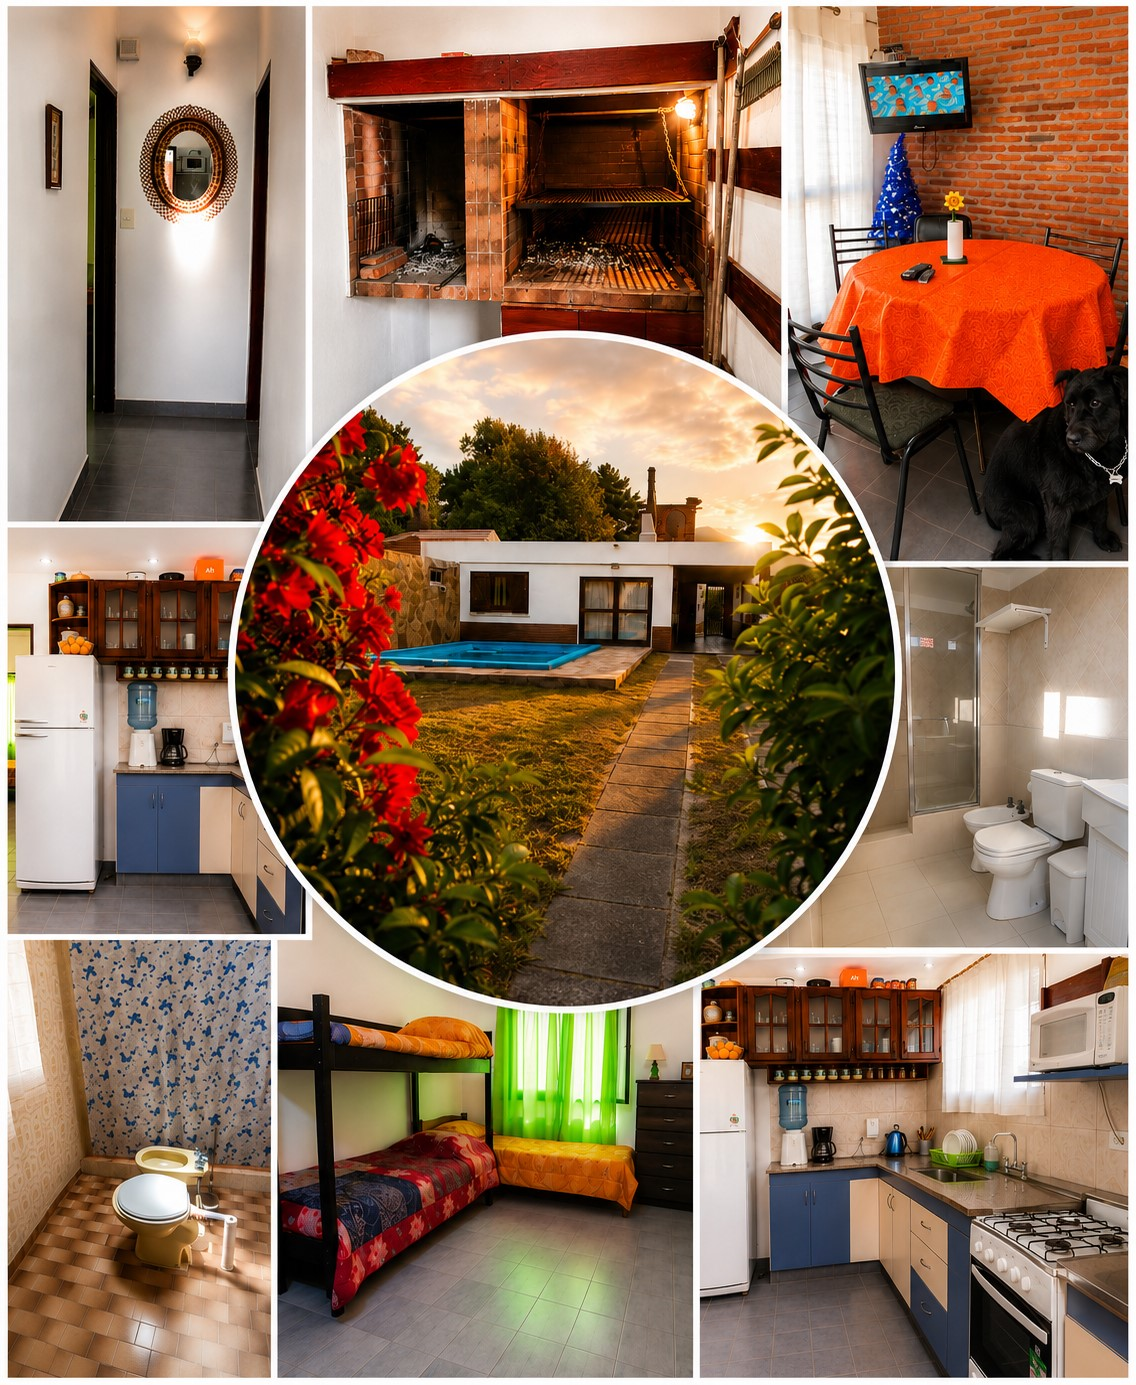
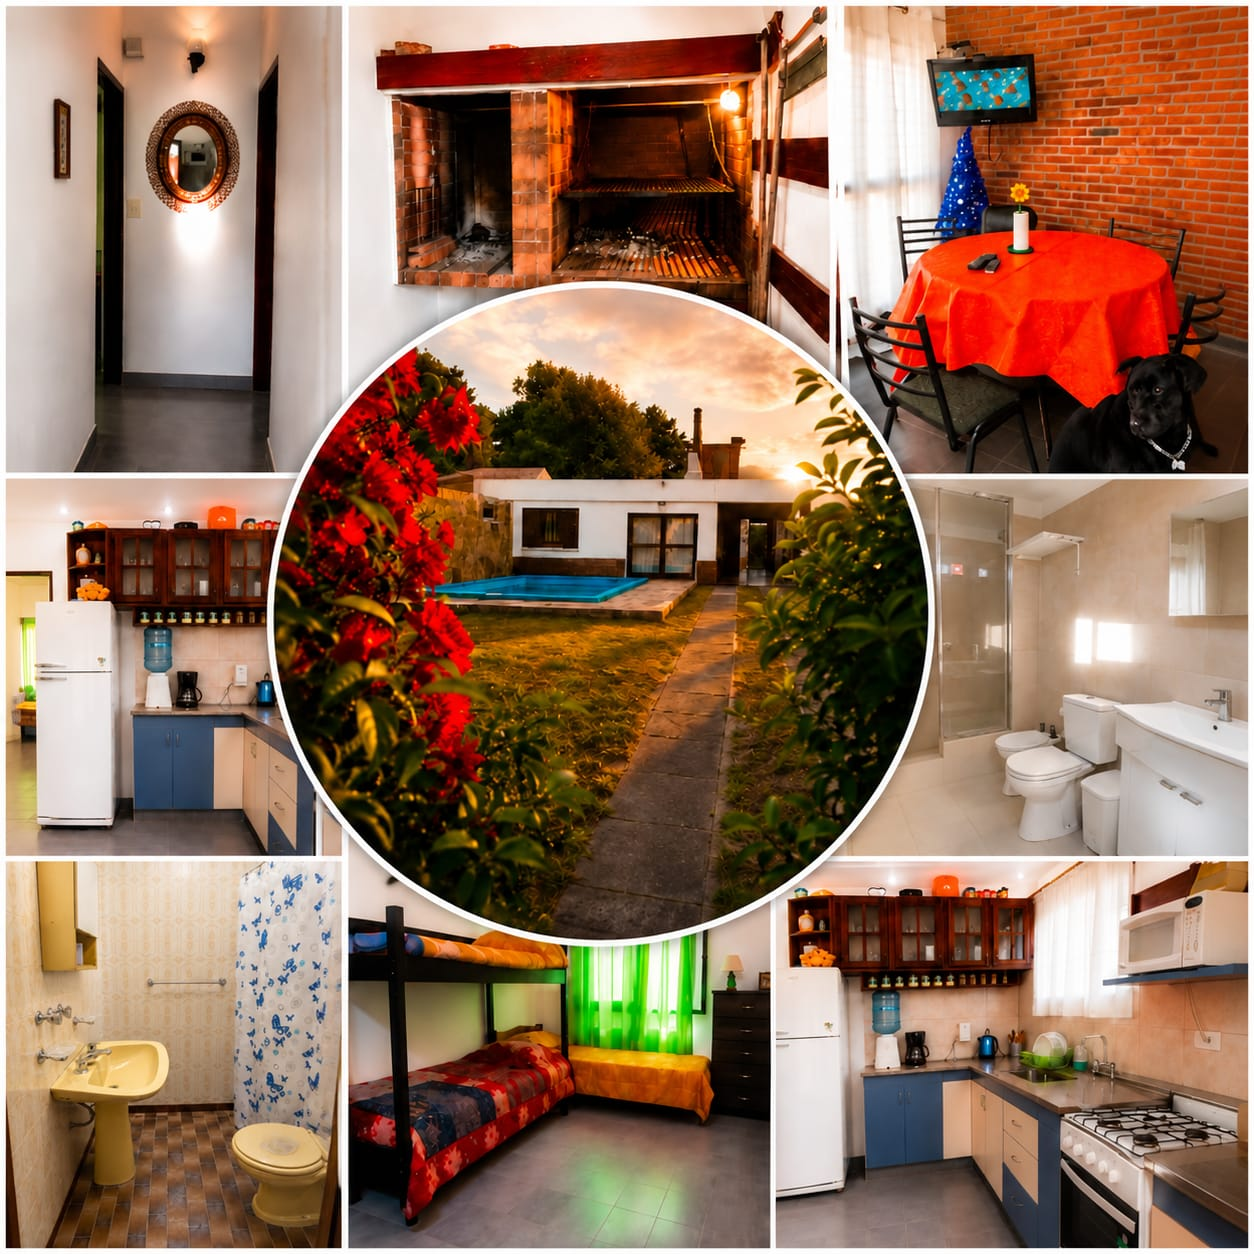
Ajustes de seguridad, sidebar y estadisticas

diff --git a/src/components/Admin/AdminStats.jsx b/src/components/Admin/AdminStats.jsx
@@ -14,19 +14,19 @@ function AdminStats({ reservas = [] }) {
     (reserva) => reserva.estado === "pendiente",
   ).length;
 
-  const totalClientes = new Set(
-    reservas
-      .filter(
-        (reserva) =>
-          reserva.estado === "pendiente" || reserva.estado === "confirmada",
-      )
-      .map((reserva) =>
-        `${reserva.nombre || ""}-${reserva.telefono || reserva.email || ""}`
-          .trim()
-          .toLowerCase(),
-      )
-      .filter((clave) => clave.replace("-", "") !== ""),
-  ).size;
+  // Suma el campo "huespedes" de todas las reservas activas (pendientes +
+  // confirmadas) — cuánta gente hay en total alojada/por alojarse ahora
+  // mismo entre todas las casas, sin importar si es la misma persona
+  // reservando varias veces.
+  const totalHuespedes = reservas
+    .filter(
+      (reserva) =>
+        reserva.estado === "pendiente" || reserva.estado === "confirmada",
+    )
+    .reduce(
+      (suma, reserva) => suma + (parseInt(reserva.huespedes, 10) || 0),
+      0,
+    );
 
   return (
     <>
@@ -175,7 +175,7 @@ function AdminStats({ reservas = [] }) {
           </div>
         </div>
 
-        {/* Total Clientes */}
+        {/* Total Huéspedes */}
         <div className="gabriel-item">
           <div className="gabriel-icon-col">
             <div className="gabriel-icon-box gabriel-icon-orange">
@@ -193,7 +193,7 @@ function AdminStats({ reservas = [] }) {
           </div>
           <div className="gabriel-info">
             <div className="gabriel-info-top">
-              <span className="gabriel-value">{totalClientes}</span>
+              <span className="gabriel-value">{totalHuespedes}</span>
               <button className="gabriel-menu-dots" aria-label="Más opciones">
                 <svg viewBox="0 0 24 24" fill="none">
                   <circle cx="12" cy="5" r="1.6" fill="currentColor" />
@@ -202,7 +202,7 @@ function AdminStats({ reservas = [] }) {
                 </svg>
               </button>
             </div>
-            <span className="gabriel-label">Total Clientes</span>
+            <span className="gabriel-label">Total Huéspedes</span>
           </div>
         </div>
       </div>

diff --git a/src/pages/AdminDashboard.jsx b/src/pages/AdminDashboard.jsx
@@ -5,6 +5,7 @@ import "./AdminDashboard.css";
 
 // RUTA CORREGIDA: sube un nivel (..) y entra en context
 import { useSettings } from "../context/SettingsContext";
+import { apiFetch } from "../utils/apiFetch";
 
 import AdminSidebar from "../components/Admin/AdminSidebar";
 import AdminBottomNav from "../components/Admin/AdminBottomNav";
@@ -22,7 +23,6 @@ import AdminScrollTop from "../components/Admin/AdminScrollTop";
 import AdminActividadReciente from "../components/Admin/AdminActividadReciente";
 import AdminReservasPanel from "../components/Admin/AdminReservasPanel";
 import ChangePassword from "./ChangePassword";
-import { API_URL } from "../config/api";
 
 function AdminDashboard() {
   const navigate = useNavigate();
@@ -43,9 +43,9 @@ function AdminDashboard() {
   }, [navigate]);
 
   const cargarReservas = () => {
-    fetch(`${API_URL}/api/reservas`)
-      .then((res) => res.json())
-      .then((data) => setReservas(data))
+    apiFetch("/api/reservas")
+      .then((res) => (res ? res.json() : []))
+      .then((data) => setReservas(Array.isArray(data) ? data : []))
       .catch((error) => console.error("Error cargando reservas:", error));
   };
 
@@ -57,6 +57,7 @@ function AdminDashboard() {
 
   const logout = () => {
     localStorage.removeItem("auth");
+    localStorage.removeItem("token");
     navigate("/admin/login", { replace: true });
   };
 

diff --git a/src/components/Admin/AdminSidebar.css b/src/components/Admin/AdminSidebar.css
@@ -62,9 +62,9 @@
   display: flex;
   align-items: center;
   gap: 12px;
-  padding: 10px 12px;
+  padding: 11px 14px;
   margin: 4px 0;
-  border-radius: 8px;
+  border-radius: 14px;
   cursor: pointer;
   font-size: var(--sidebar-font-size, 13px);
   font-weight: 550;
@@ -246,9 +246,9 @@
   display: flex;
   align-items: center;
   gap: 12px;
-  padding: 10px 12px;
+  padding: 11px 14px;
   margin: 4px 0;
-  border-radius: 8px;
+  border-radius: 14px;
   cursor: pointer;
   font-size: var(--sidebar-font-size, 13px);
   font-weight: 550;
